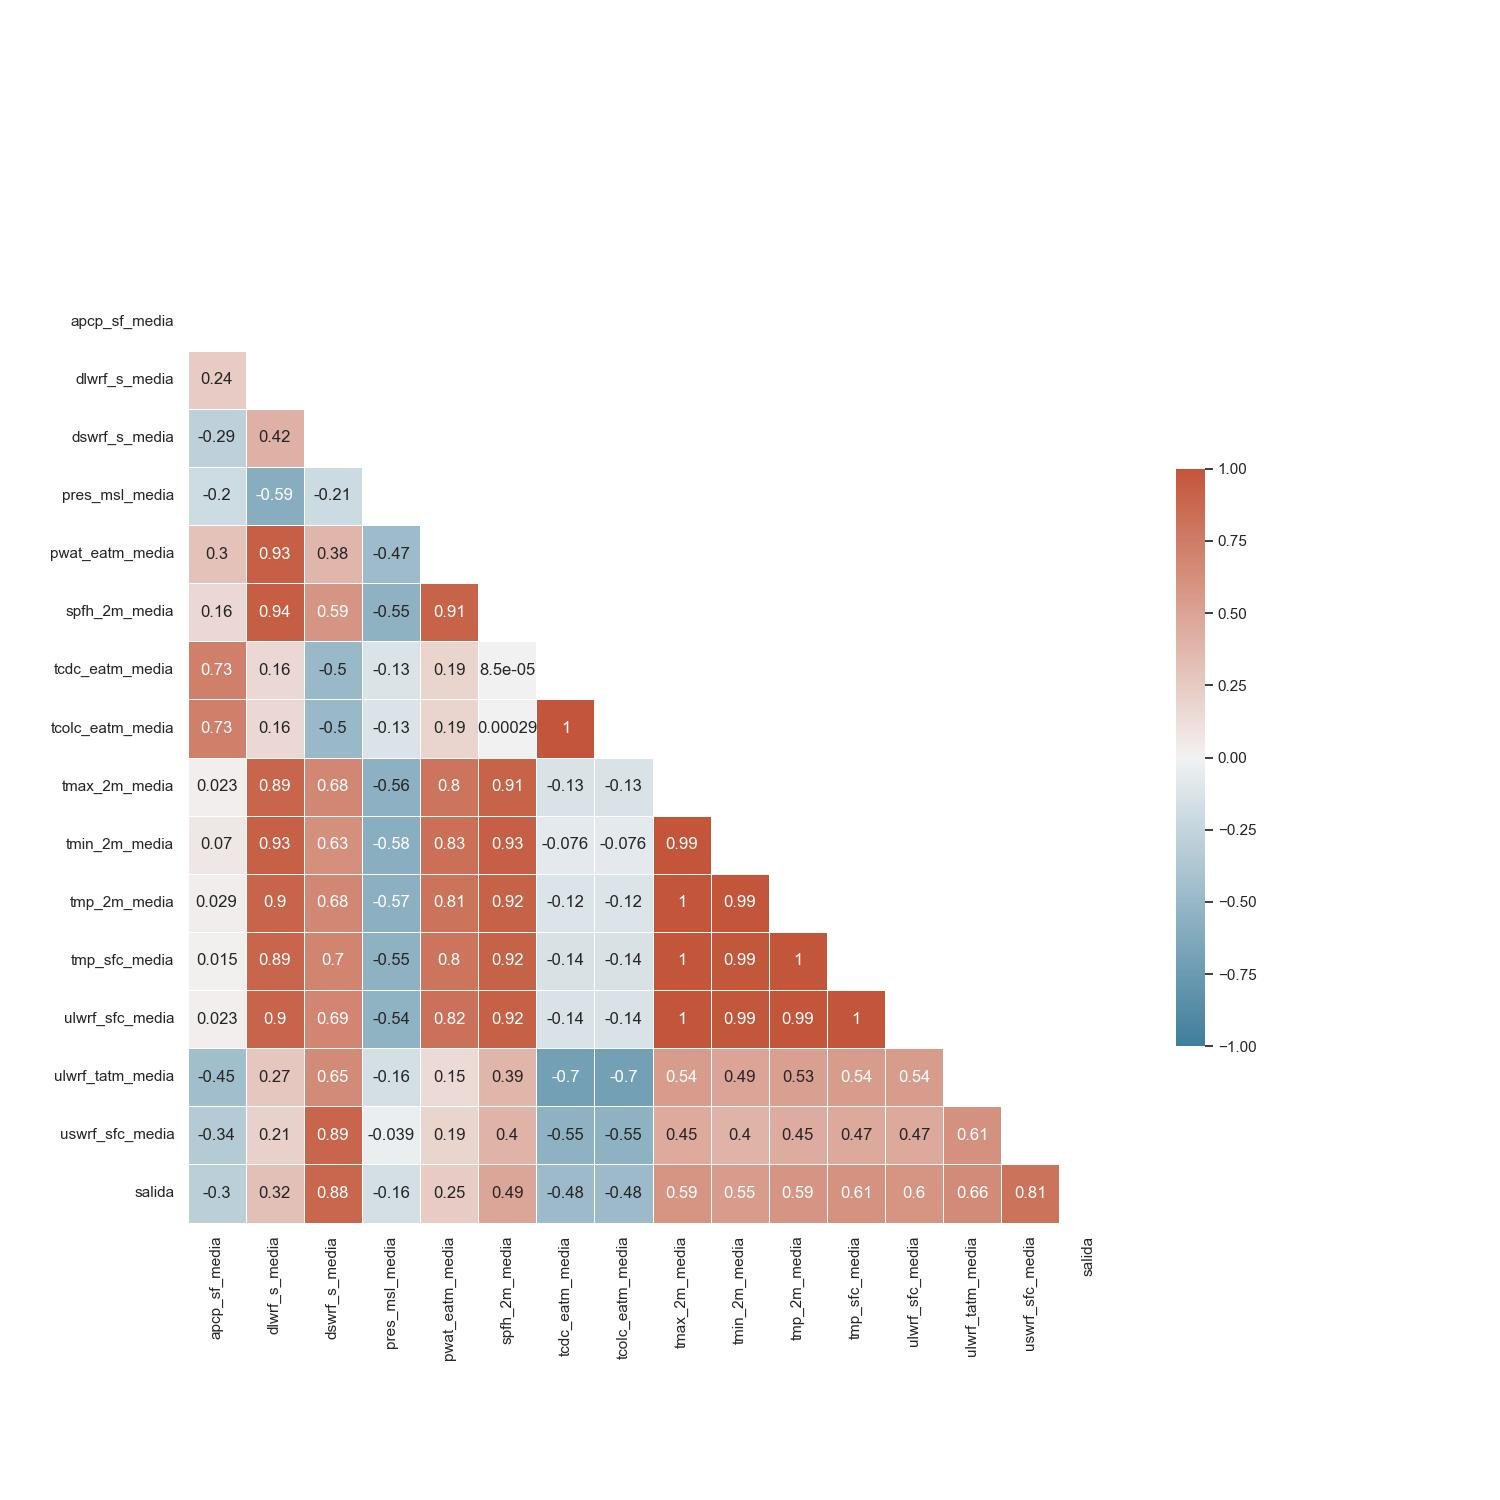
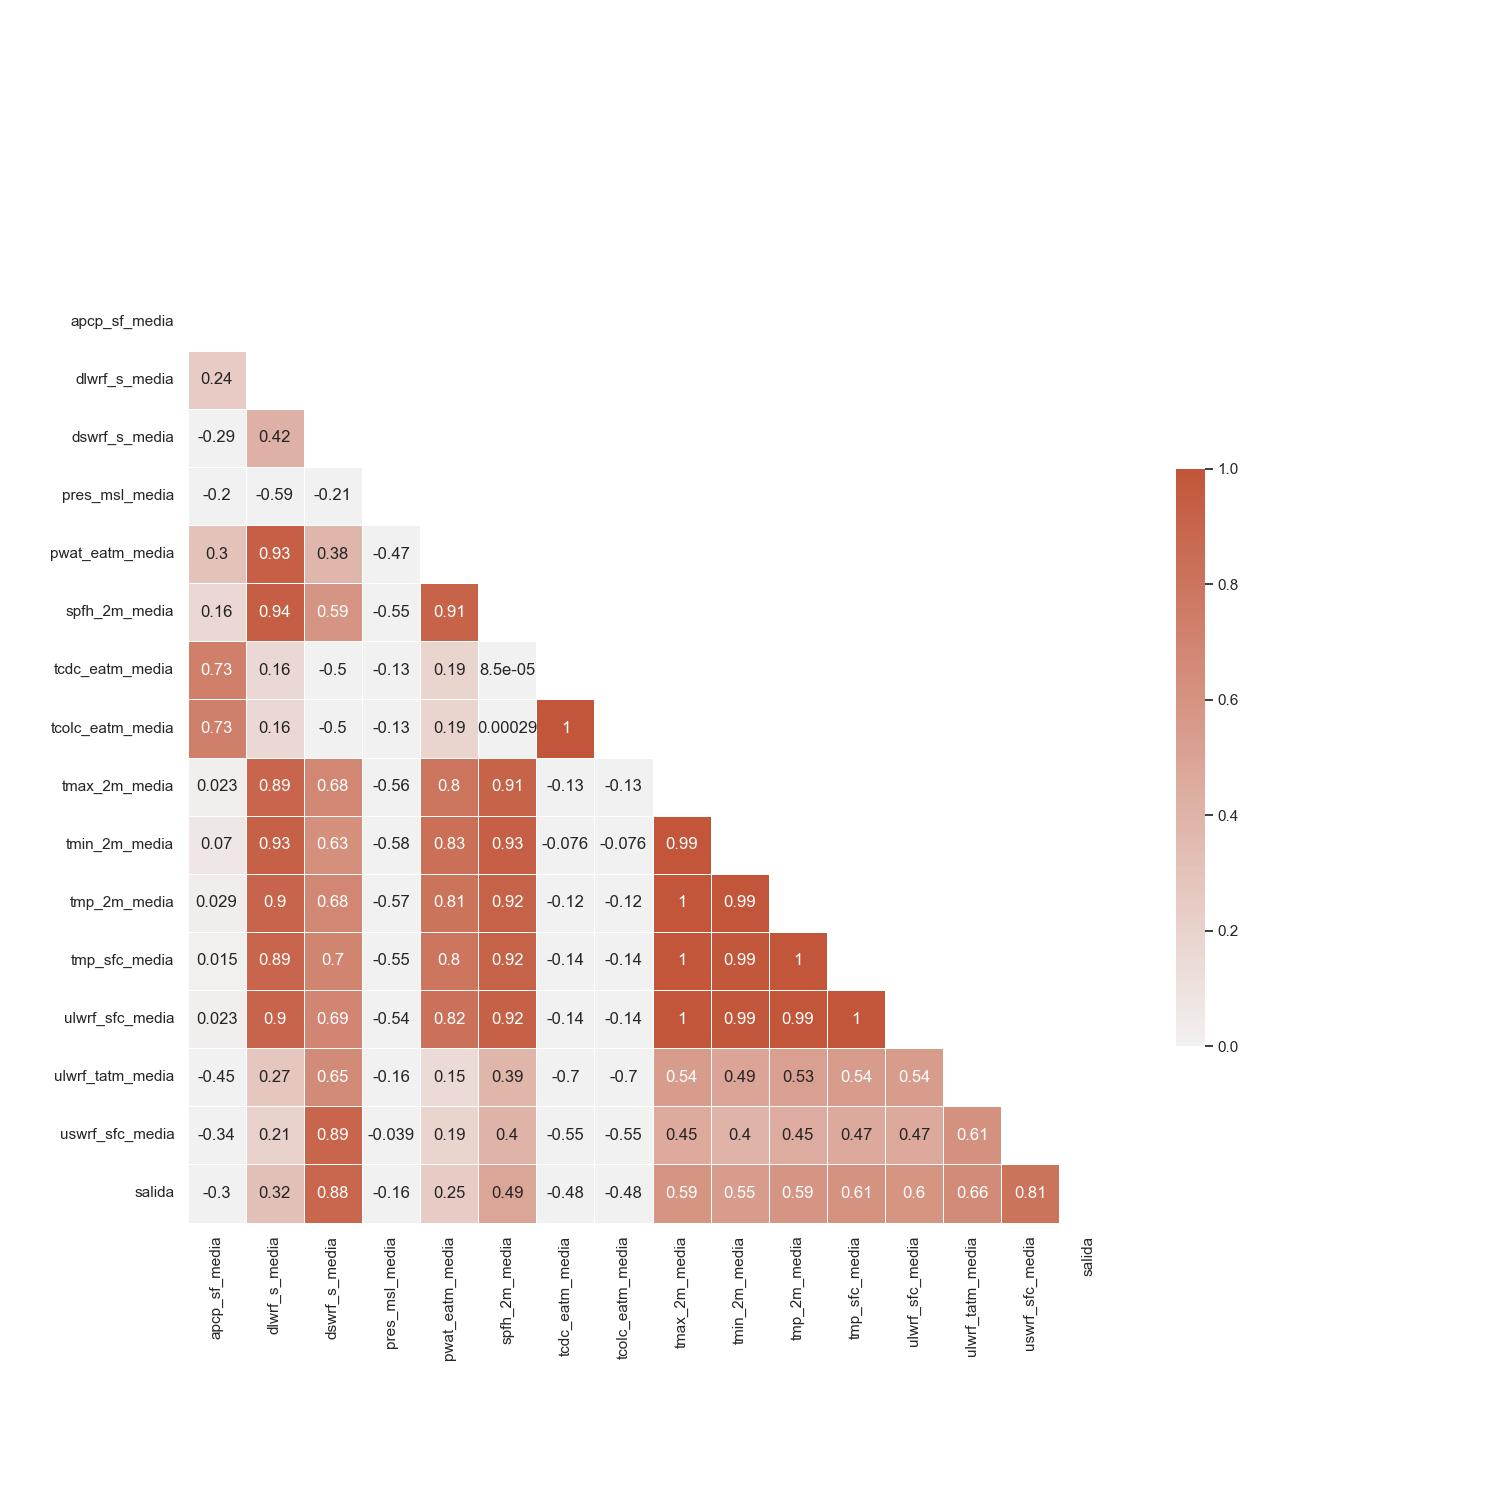
Primera versión de Reducción de dimensionalidad

diff --git a/all.py b/all.py
@@ -1,6 +1,8 @@
 #!pip install --upgrade linear-tree
 #!pip install statsmodels
 
+import os
+
 # Importación de datos.
 import numpy as np
 import pandas as pd
@@ -133,6 +135,29 @@ for col in cols:
     plt.show()
 '''
 
+#Crear una carpeta para guardar las gráficas.
+'''
+if not os.path.exists('graficas'):
+    os.makedirs('graficas')
+
+# Boxplot de cada variable meteorológica con seaborn.
+sns.set(style='ticks')
+
+# Seleccionar solo las columnas de las variables meteorológicas
+cols = mean_df.columns[:-1]
+
+# Crear un diagrama de cajas para cada variable
+for col in cols:
+    sns.boxplot(data=mean_df, x=col)
+    plt.savefig(f'graficas/{col}.png')
+    plt.clf()
+
+# Histograma de la variable de respuesta.
+sns.displot(mean_df['salida'], kde=True)
+plt.savefig('graficas/salida.png')
+plt.clf()
+'''
+
 # Correlación entre variables meteorológicas.
 
 sns.set_theme(style='white')
@@ -152,7 +177,7 @@ f, ax = plt.subplots(figsize=(15, 15))
 cmap = sns.diverging_palette(230, 20, as_cmap=True)
 
 # Dibujar el mapa de calor con la máscara y el mapa de colores adecuados.
-sns.heatmap(corr, mask=mask, cmap=cmap, vmax=1, vmin=-1, center=0,
+sns.heatmap(corr, mask=mask, cmap=cmap, vmax=1, vmin=0, center=0,
             square=True, linewidths=.5, cbar_kws={'shrink': .5}, annot=True)
 
 #plt.show()
@@ -758,7 +783,70 @@ print()
 
 print('[bold red]' + '-' * 60 +'\nReducción de dimensionalidad.\n' + '-' * 60 + '[/bold red]')
 
+# quitamos del dataframe de las medias de las variables las variables que no queremos usar.
+df_reducida = mean_df.drop(['tmin_2m_media', 'tmp_2m_media', 'tmp_sfc_media', 'tmax_2m_media', 'tcolc_eatm_media'], axis=1)
 
+# imprimimos el dataframe reducido.
+print(df_reducida)
+
+print(df_reducida.shape)
+
+# Dividimos el dataframe reducido en train y test.
+X_train_r, X_test_r, y_train_r, y_test_r = train_test_split(df_reducida.drop('salida', axis=1), df_reducida['salida'], test_size=2/12, random_state=13, shuffle=False)
+
+# Volvemos a dividir el train en train_train y train_test.
+X_train_train_r, X_train_test_r, y_train_train_r, y_train_test_r = train_test_split(X_train_r, y_train_r, test_size=3/10, random_state=13, shuffle=False)
+
+# Normalizamos los datos.
+scaler = StandardScaler()
+scaler.fit(X_train_train_r)
+X_train_train_r_n = scaler.transform(X_train_train_r)
+X_train_test_r_n = scaler.transform(X_train_test_r)
+X_test_r_n = scaler.transform(X_test_r)
+
+# Normalizamos la salida.
+scaler = StandardScaler()
+scaler.fit(y_train_train_r.values.reshape(-1, 1))
+y_train_train_r_n = scaler.transform(y_train_train_r.values.reshape(-1, 1))
+y_train_test_r_n = scaler.transform(y_train_test_r.values.reshape(-1, 1))
+y_test_r_n = scaler.transform(y_test_r.values.reshape(-1, 1))
+
+# Entrenamos a los modelos Knn, Árbol de decisión y Regresión lineal con el dataframe reducido y con los mejores hiperparametros.
+
+# KNN.
+print('\n[bold yellow]KNN\n-----[/bold yellow]')
+knn_model_r = KNeighborsRegressor(leaf_size=1, metric='euclidean', n_neighbors=8, weights='distance')
+knn_model_r.fit(X_train_train_r_n, y_train_train_r_n)
+knn_preds_r = knn_model_r.predict(X_train_test_r_n)
+mae_knn_r = mae(y_train_test_r_n, knn_preds_r)
+rmse_knn_r = rmse(y_train_test_r_n, knn_preds_r)
+
+print(f'\nError cuadrático medio del modelo KNN: {rmse_knn_r}')
+print(f'\nError absoluto medio del modelo KNN: {mae_knn_r}')
+
+# Arbol de decisión.
+print('\n[bold yellow]Árbol de decisión\n-----[/bold yellow]')
+tree_model_r = DecisionTreeRegressor(max_depth=8, min_samples_leaf=10, min_samples_split=7)
+tree_model_r.fit(X_train_train_r, y_train_train_r)
+tree_preds_r = tree_model_r.predict(X_train_test_r)
+mae_tree_r = mae(y_train_test_r, tree_preds_r)
+rmse_tree_r = rmse(y_train_test_r, tree_preds_r)
+
+print(f'\nError cuadrático medio del modelo Árbol de decisión: {rmse_tree_r}')
+print(f'\nError absoluto medio del modelo Árbol de decisión: {mae_tree_r}')
+
+# Regresión lineal.
+print('\n[bold green]Regresión lineal\n------------------[/bold green]')
+linear_model_r = LinearRegression(fit_intercept=True, positive=False)
+linear_model_r.fit(X_train_train_r_n, y_train_train_r_n)
+linear_preds_r = linear_model_r.predict(X_train_test_r_n)
+mae_linear_r = mae(y_train_test_r_n, linear_preds_r)
+rmse_linear_r = rmse(y_train_test_r_n, linear_preds_r)
+
+print(f'\nError cuadrático medio del modelo Regresión lineal: {rmse_linear_r}')
+print(f'\nError absoluto medio del modelo Regresión lineal: {mae_linear_r}')
+
+print("\nREVISAR ERRORES (DESNORMALIZAR) Y ESTRATEGIA PORQUE MUCHO ERROR\n")
 
 #------------------------------------------------------------
 '''Evaluación de métodos avanzados sin ajuste de hp.'''
